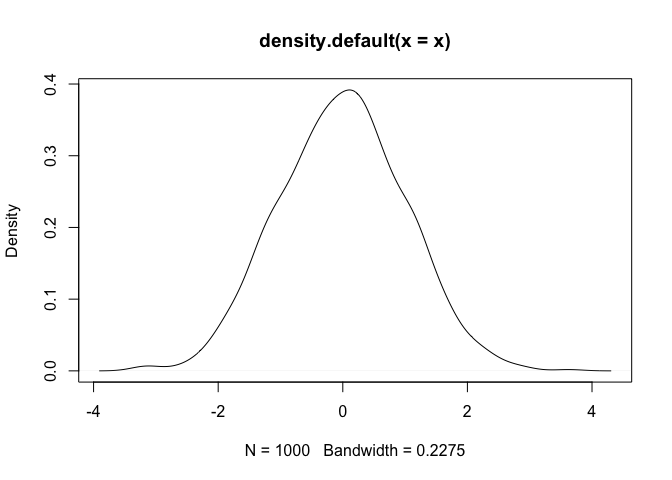
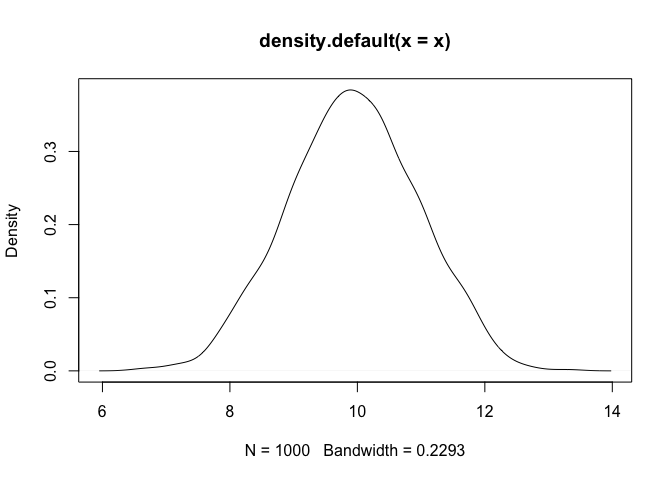
editted distribution

diff --git a/RMarkdown.md b/RMarkdown.md
@@ -23,11 +23,11 @@ summary(cars)
     ##  Max.   :25.0   Max.   :120.00
 
 ``` r
-x <- rnorm(1000,0,1)
+x <- rnorm(1000,0,1) + 10
 head(x)
 ```
 
-    ## [1]  1.3254012  0.6955743 -0.2776426  1.2309294  0.6125773  1.0716408
+    ## [1]  9.648500  9.716313 10.719307 10.004839  8.108975  8.538791
 
 Including Plots
 ---------------
